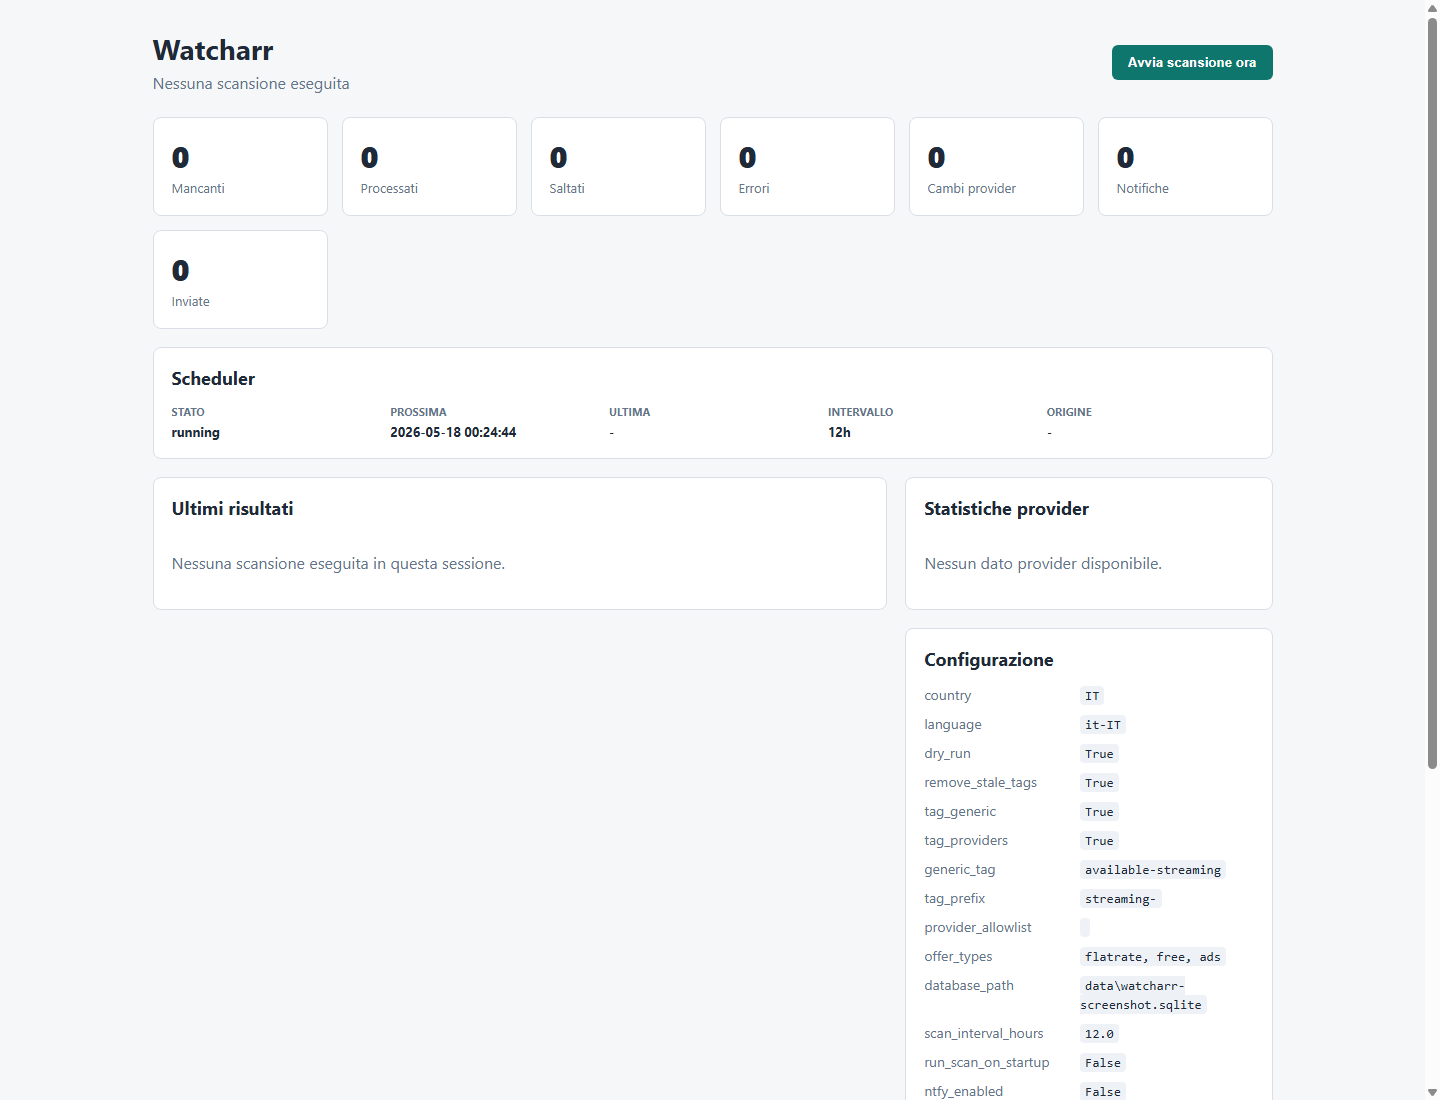
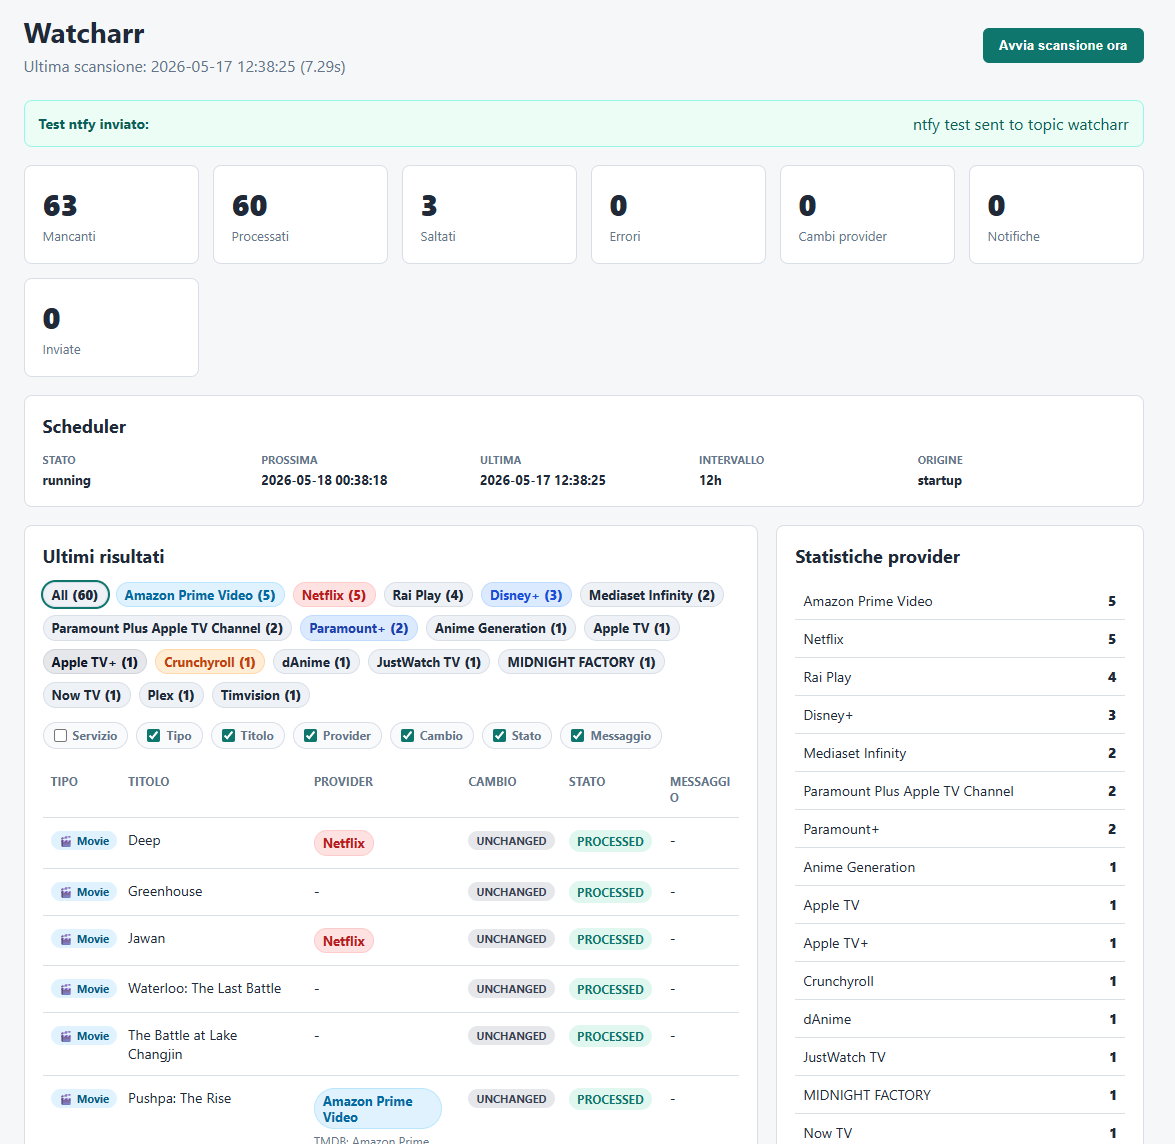
feat: make dashboard installable as PWA

diff --git a/app/watcharr/web/static/sw.js b/app/watcharr/web/static/sw.js
@@ -1,0 +1,40 @@
+const CACHE_NAME = "watcharr-shell-v1";
+const SHELL_ASSETS = [
+  "/",
+  "/manifest.webmanifest",
+  "/static/icon.svg",
+  "/static/icon-maskable.svg"
+];
+
+self.addEventListener("install", (event) => {
+  event.waitUntil(
+    caches.open(CACHE_NAME).then((cache) => cache.addAll(SHELL_ASSETS))
+  );
+  self.skipWaiting();
+});
+
+self.addEventListener("activate", (event) => {
+  event.waitUntil(
+    caches.keys().then((keys) =>
+      Promise.all(keys.filter((key) => key !== CACHE_NAME).map((key) => caches.delete(key)))
+    )
+  );
+  self.clients.claim();
+});
+
+self.addEventListener("fetch", (event) => {
+  if (event.request.method !== "GET") {
+    return;
+  }
+
+  if (event.request.mode === "navigate") {
+    event.respondWith(
+      fetch(event.request).catch(() => caches.match("/"))
+    );
+    return;
+  }
+
+  event.respondWith(
+    caches.match(event.request).then((cached) => cached || fetch(event.request))
+  );
+});

diff --git a/app/watcharr/web/app.py b/app/watcharr/web/app.py
@@ -3,11 +3,13 @@ from __future__ import annotations
 from dataclasses import asdict
 from datetime import datetime
 from html import escape
+from pathlib import Path
 from threading import Lock
 from urllib.parse import quote, urlsplit, urlunsplit
 
 from fastapi import FastAPI, Request
-from fastapi.responses import HTMLResponse, RedirectResponse
+from fastapi.responses import FileResponse, HTMLResponse, RedirectResponse
+from fastapi.staticfiles import StaticFiles
 
 from watcharr.core.config import Settings, load_settings
 from watcharr.core.provider_mappings import PROVIDER_BADGE_COLORS
@@ -17,6 +19,8 @@ from watcharr.services.scheduler import ScanExecution, ScanSchedulerService, Sch
 from watcharr.storage import initialize_storage_from_environment
 
 app = FastAPI(title="Watcharr")
+STATIC_DIR = Path(__file__).resolve().parent / "static"
+app.mount("/static", StaticFiles(directory=STATIC_DIR), name="static")
 
 _state_lock = Lock()
 _last_result: ScanRunResult | None = None
@@ -42,6 +46,20 @@ def initialize_services():
 def shutdown_services():
     if _scheduler_service:
         _scheduler_service.shutdown()
+
+
[email redacted]("/manifest.webmanifest", include_in_schema=False)
+def web_manifest():
+    return FileResponse(STATIC_DIR / "manifest.webmanifest", media_type="application/manifest+json")
+
+
[email redacted]("/sw.js", include_in_schema=False)
+def service_worker():
+    return FileResponse(
+        STATIC_DIR / "sw.js",
+        media_type="text/javascript",
+        headers={"Service-Worker-Allowed": "/"},
+    )
 
 
 def _load_settings_for_page() -> tuple[Settings | None, str | None]:
@@ -250,6 +268,15 @@ def _render_page(
   <meta charset="utf-8">
   <meta name="viewport" content="width=device-width, initial-scale=1">
   <title>Watcharr</title>
+  <meta name="theme-color" content="#0f766e">
+  <meta name="application-name" content="Watcharr">
+  <meta name="mobile-web-app-capable" content="yes">
+  <meta name="apple-mobile-web-app-capable" content="yes">
+  <meta name="apple-mobile-web-app-title" content="Watcharr">
+  <meta name="apple-mobile-web-app-status-bar-style" content="default">
+  <link rel="manifest" href="/manifest.webmanifest">
+  <link rel="icon" href="/static/icon.svg" type="image/svg+xml">
+  <link rel="apple-touch-icon" href="/static/icon.svg">
   <script src="https://unpkg.com/htmx.org@2.0.4" defer></script>
   <style>
     :root {{
@@ -735,6 +762,12 @@ def _render_page(
 
       document.addEventListener("DOMContentLoaded", applyColumns);
       document.body.addEventListener("htmx:afterSwap", applyColumns);
+
+      if ("serviceWorker" in navigator) {{
+        window.addEventListener("load", () => {{
+          navigator.serviceWorker.register("/sw.js").catch(() => undefined);
+        }});
+      }}
     }})();
   </script>
 </body>

diff --git a/tests/test_scan_results_ui.py b/tests/test_scan_results_ui.py
@@ -1,5 +1,6 @@
 import sys
 import unittest
+import json
 from pathlib import Path
 
 sys.path.insert(0, str(Path(__file__).resolve().parents[1] / "app"))
@@ -117,6 +118,31 @@ class ScanResultsUiTest(unittest.TestCase):
         self.assertIn("data-column-toggle", html)
         self.assertIn("htmx:afterSwap", html)
         self.assertIn("Test ntfy", html)
+
+    def test_page_has_pwa_metadata(self):
+        html = _render_page(
+            settings=_settings(),
+            config_error=None,
+            scan_error=None,
+            result=_sample_result(),
+            scheduler_status=None,
+            active_provider=None,
+        )
+
+        self.assertIn('rel="manifest"', html)
+        self.assertIn('href="/manifest.webmanifest"', html)
+        self.assertIn('name="theme-color"', html)
+        self.assertIn('apple-mobile-web-app-capable', html)
+        self.assertIn('serviceWorker.register("/sw.js")', html)
+
+    def test_pwa_manifest_has_install_metadata(self):
+        manifest_path = Path(__file__).resolve().parents[1] / "app" / "watcharr" / "web" / "static" / "manifest.webmanifest"
+        manifest = json.loads(manifest_path.read_text(encoding="utf-8"))
+
+        self.assertEqual(manifest["name"], "Watcharr")
+        self.assertEqual(manifest["display"], "standalone")
+        self.assertEqual(manifest["start_url"], "/")
+        self.assertTrue(any(icon["purpose"] == "maskable" for icon in manifest["icons"]))
 
     def test_ntfy_test_notice_renders_success_and_failure(self):
         self.assertIn("Test ntfy inviato", _ntfy_test_notice((True, "sent")))

diff --git a/README.md b/README.md
@@ -16,7 +16,6 @@ Scan your Radarr/Sonarr library, track which missing titles are available on str
 ## Dashboard Preview
 
 ![Dashboard Preview](docs/images/dashboard.png)
-![Mobile Preview](docs/images/mobile.png)
 
 ---
 
@@ -29,6 +28,7 @@ Scan your Radarr/Sonarr library, track which missing titles are available on str
 - SQLite cache & history for scan diffs and notifications
 - ntfy notifications when providers change
 - Responsive web dashboard for scan results and scheduler state
+- Installable mobile web app (PWA)
 - Automatic scheduler (APScheduler) with manual scan button
 - Provider filters
 - Automatic tagging